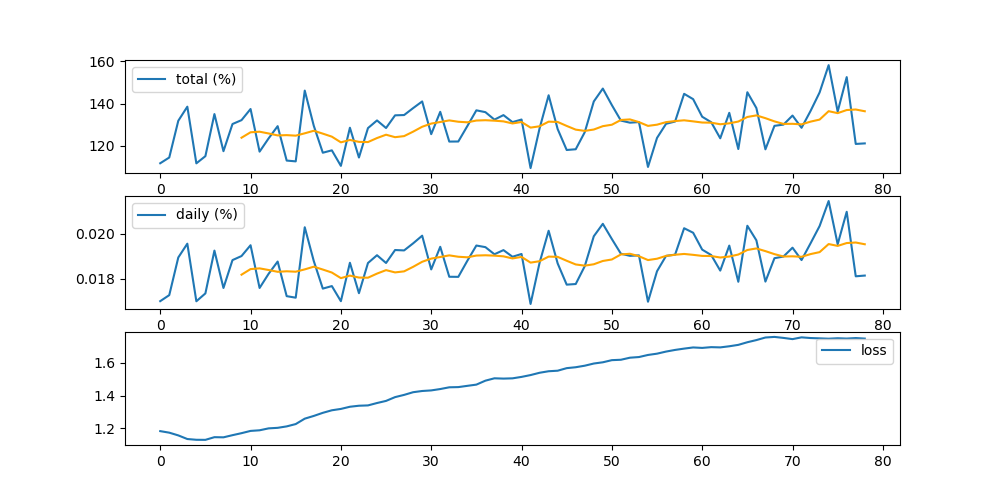
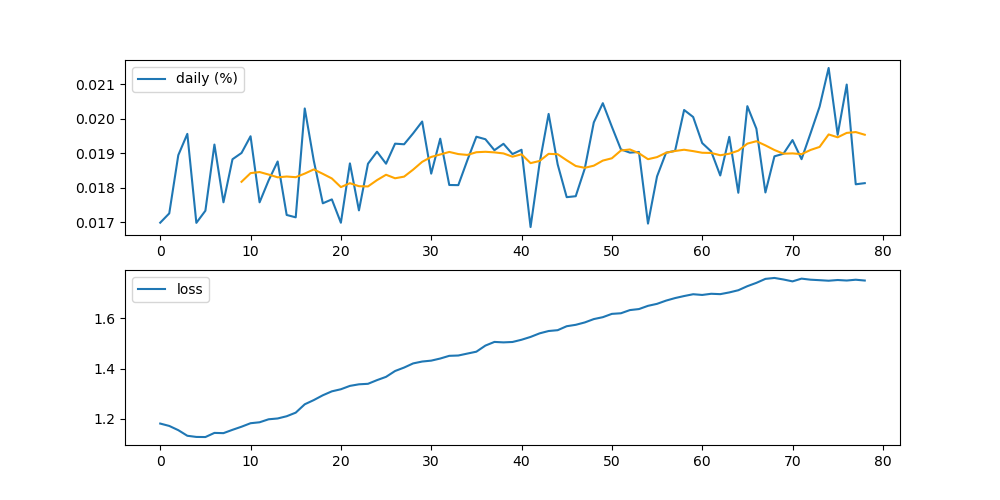
2024-02-04

diff --git a/src/quant.cpp b/src/quant.cpp
@@ -201,3 +201,26 @@ double optimize(Memory &memory, Net &critic, Net &target_critic, Net &actor, Net
 
     return actor_loss;
 }
+
+void test(std::vector<std::string> &tickers, std::vector<std::vector<double>> &price,
+          std::vector<std::vector<double>> &valuation, Net &actor, Net &critic) {
+    Net target_actor; copy(actor, target_actor, 1.00);
+    Net target_critic; copy(critic, target_critic, 1.00);
+
+    const unsigned int START = OBS-1;
+    const unsigned int TERMINAL = price[0].size()-1;
+
+    double portfolio_value = 1.00;
+    double market_value = 1.00;
+
+    for(unsigned int t = START; t <= TERMINAL; t++) {
+        std::vector<double> state = sample_state(valuation, t);
+        std::vector<double> action = epsilon_greedy(actor, state, 0.00);
+
+        double portfolio_return = 0.00, market_return = 0.00;
+        for(unsigned int i = 0; i < tickers.size(); i++) {
+            double dp = (price[i][t+1] - price[i][t]) / price[i][t];
+            portfolio_return += action[i] * (1.00 + dp);
+        }
+    }
+}

diff --git a/python/build.py b/python/build.py
@@ -15,15 +15,7 @@ if __name__ == "__main__":
 
     plt.figure(figsize=(10,5))
 
-    plt.subplot(3, 1, 1)
-    plt.plot(log["total"], label="total (%)")
-    total_mavg = mavg(log["total"], WINDOW)
-    for i in range(WINDOW-1):
-        total_mavg = np.insert(total_mavg, 0, np.nan)
-    plt.plot(total_mavg, color="orange")
-    plt.legend()
-
-    plt.subplot(3, 1, 2)
+    plt.subplot(2, 1, 1)
     plt.plot(log["daily"], label="daily (%)")
     daily_mavg = mavg(log["daily"], WINDOW)
     for i in range(WINDOW-1):
@@ -31,7 +23,7 @@ if __name__ == "__main__":
     plt.plot(daily_mavg, color="orange")
     plt.legend()
 
-    plt.subplot(3, 1, 3)
+    plt.subplot(2, 1, 2)
     plt.plot(log["loss"], label="loss")
     plt.legend()
 

diff --git a/lib/quant.hpp b/lib/quant.hpp
@@ -52,5 +52,8 @@ void optimize_actor(Net &actor, std::vector<double> &state,
 
 double optimize(Memory &memory, Net &critic, Net &target_critic, Net &actor, Net &target_actor);
 
+void test(std::vector<std::string> &tickers, std::vector<std::vector<double>> &price,
+          std::vector<std::vector<double>> &valuation, Net &actor, Net &critic);
+
 
 #endif

diff --git a/README.md b/README.md
@@ -94,7 +94,7 @@ EUR=X (Euro-USD), JPY=X (Japanese Yen-USD), CHFUSD=X (USD-Swiss Franc), GLD (Gol
 | Actor Architecture | (80,80,80,80,80,8) |
 | Critic Architecture | (88,88,88,88,88,1) |
 
-Traverse the entire historical period for each iteration. Decrease exploration rate linearly as the replay memory reaches its capacity. Model exploration is done by adding uncorrelated gaussian noise to the action space. For each iteration, record the portfolio's total return, average daily return, and actor loss.
+Traverse the entire historical period for each iteration. Decrease exploration rate linearly as the replay memory reaches its capacity. Model exploration is done by adding uncorrelated gaussian noise to the action space. For each iteration, record the portfolio's average daily return and actor loss.
 
 ![alt text](https://github.com/junyoung-sim/ddpg-quant/blob/main/res/build.png)
 
